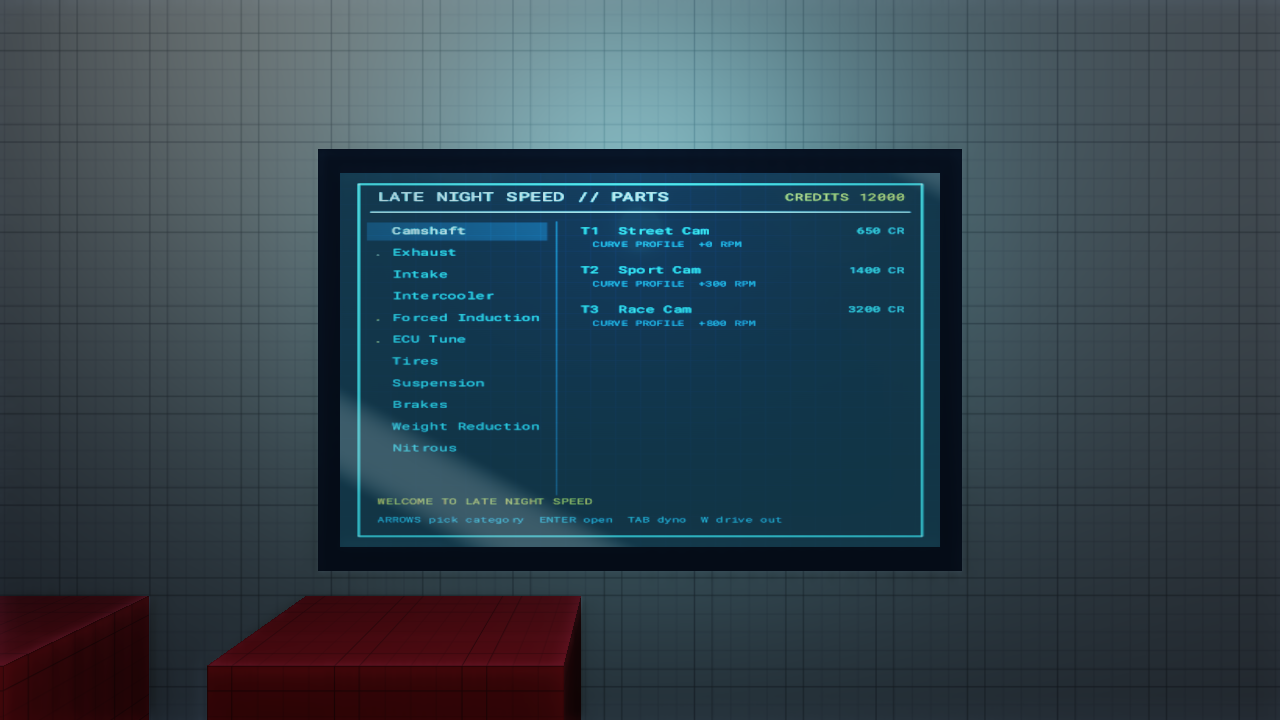
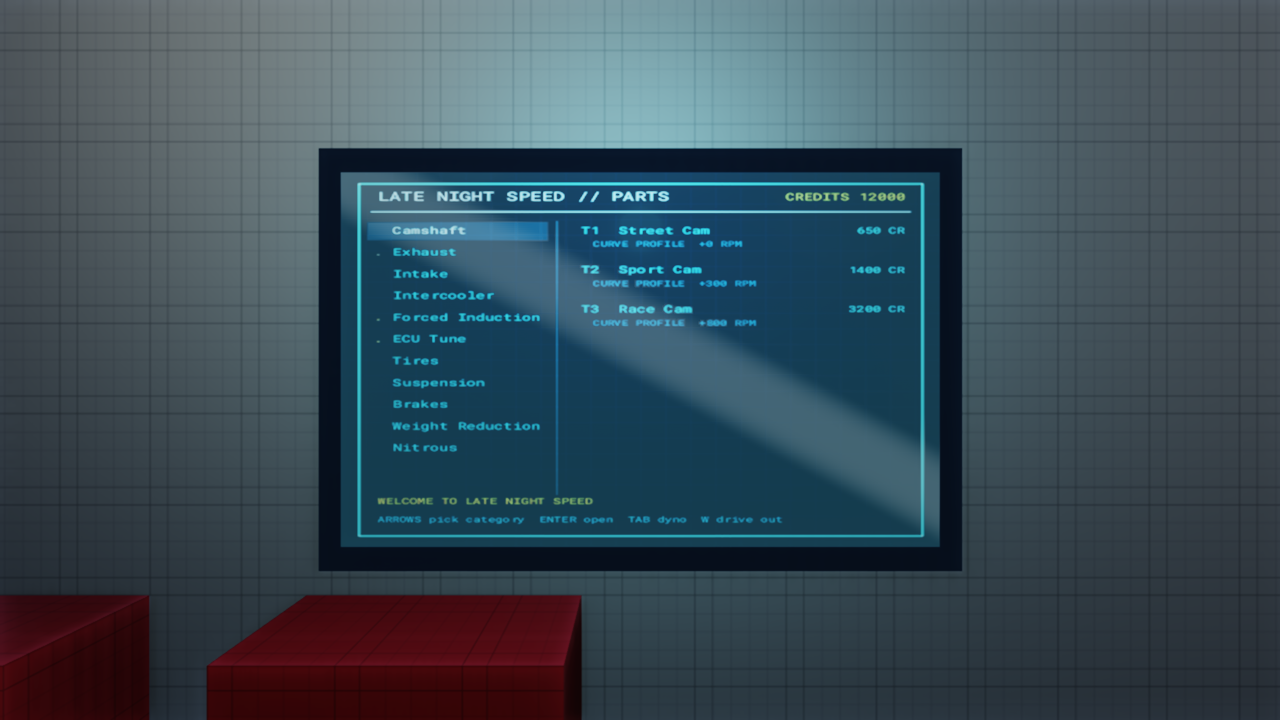
fix(refl)+feat(cli): INF guard + radiance cap in refl.comp (drive-world headless black) + --set cvar flag
ROOT CAUSE of the known '--world drive --screenshot is BLACK on the default
post stack': the SSR/RT reflection pass samples LAST frame's TAA history,
which already contains reflections — a closed feedback loop. A clearcoat/
emissive firefly on the hero car gains >1 per frame through that loop and
blows up to INF (the existing isnan() guard does NOT catch INF); the auto-
exposure then reads infinite average luminance and drives the frame to black.
Fix: isinf() guard + a 48-radiance cap on the refl output (bounds the loop
gain; shader-only). The perfshop proofs now render on the FULL default post
stack (screenshots refreshed). The PLAIN drive chase shot (sun-facing clear-
coat glint over streamed tiles + RT fallback) can still go black INTERMIT-
TENTLY — race-shaped, pre-existing, documented at the proof block.

Also: generic '--set <cvar> <value>' CLI override (repeatable), applied right
after console cvar registration — the headless A/B debugging workhorse.

Changed region(s): [[0.25, 0.2139, 0.75, 0.7333], [0.25, 0.55, 0.4688, 0.7639], [0.375, 0.5806, 0.4062, 0.6111]]

diff --git a/app/main.cpp b/app/main.cpp
@@ -1282,6 +1282,8 @@ int main(int argc, char** argv) {
     // through the REAL loader on the live device, render the room, capture a PNG.
     bool        loaderShot = false;
     std::string loaderShotPath = "build/proof/loader_room.png";
+    // --set <cvar> <value> pairs, applied right after console cvar registration.
+    std::vector<std::pair<std::string, std::string>> cliCVars;
     // --screenshot-perfshop [dir]: headless PERFORMANCE-SHOP proofs — boot the
     // drive world, build the shop, set the car on the lift, capture the bay
     // (car on lift + neon sign), the PARTS terminal, and the DYNO mid-pull into
@@ -1752,6 +1754,12 @@ int main(int argc, char** argv) {
         else if (a == "--screenshot-perfshop") {
             perfshopShot = true;
             if (i + 1 < argc && argv[i + 1][0] != '-') perfshopShotDir = argv[++i];
+        }
+        else if (a == "--set") {
+            // Generic CLI cvar override: --set <cvar> <value> (repeatable).
+            // Applied right after the console registers its cvars — the headless
+            // A/B debugging workhorse (e.g. --set r_rtreflections 0).
+            if (i + 2 < argc) { cliCVars.emplace_back(argv[i+1], argv[i+2]); i += 2; }
         }
         else if (a == "--test-footik") testFootIk = true;
         else if (a == "--test-ui") testUi = true;
@@ -5061,8 +5069,13 @@ int main(int argc, char** argv) {
 
         // ===== Headless PERFORMANCE-SHOP proofs (--screenshot-perfshop <dir>). ==
         // Car posed on the lift, shop mode on: bay (car + neon sign), PARTS
-        // terminal close-up, DYNO mid-pull. Run with --legacypost (the default
-        // post stack renders BLACK headless in this world path — pre-existing).
+        // terminal close-up, DYNO mid-pull. Works on the FULL default post stack
+        // (the refl.comp NaN/INF guard + radiance cap bounded the reflection->TAA
+        // history feedback loop that used to drive this world path to black).
+        // NOTE: the PLAIN `--world drive --screenshot` chase shot (sun-facing cam
+        // on the clearcoat car over STREAMED tiles) can still go black
+        // INTERMITTENTLY with the RT reflection fallback on — race-shaped,
+        // pre-existing; --legacypost (or --notaa/--norefl) sidesteps it there.
         if (perfshopShot) {
             if (!shopBuilt) {
                 x3::logError("--screenshot-perfshop: shop build failed");
@@ -8708,6 +8721,13 @@ int main(int argc, char** argv) {
     // and vm_fwd/vm_right/vm_down (m); read them each frame and feed the pose to
     // drawViewmodel so typing e.g. `vm_pitch 10` moves the held gun immediately.
     registerViewmodelCVars(*console);
+
+    // --set <cvar> <value> CLI overrides (repeatable) — applied as soon as the
+    // console exists so the per-frame cvar sync starts from the requested state.
+    for (const auto& kv : cliCVars) {
+        console->set(kv.first, kv.second);
+        x3::logInfo("--set " + kv.first + " " + kv.second);
+    }
 
     // --legacypost / --notaa: pin the matching cvars so the per-frame cvar->device
     // sync (applyRtaoCVars) keeps the A/B state instead of re-enabling defaults.
